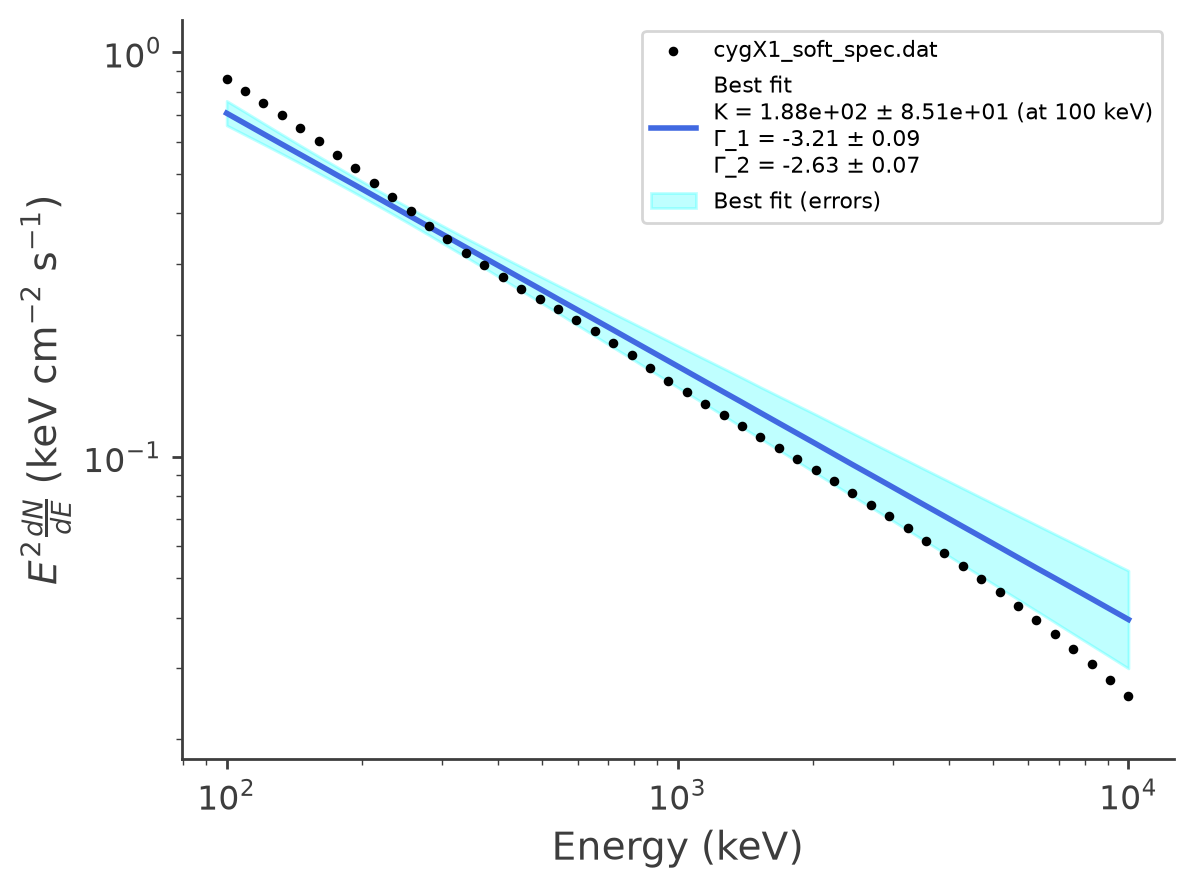
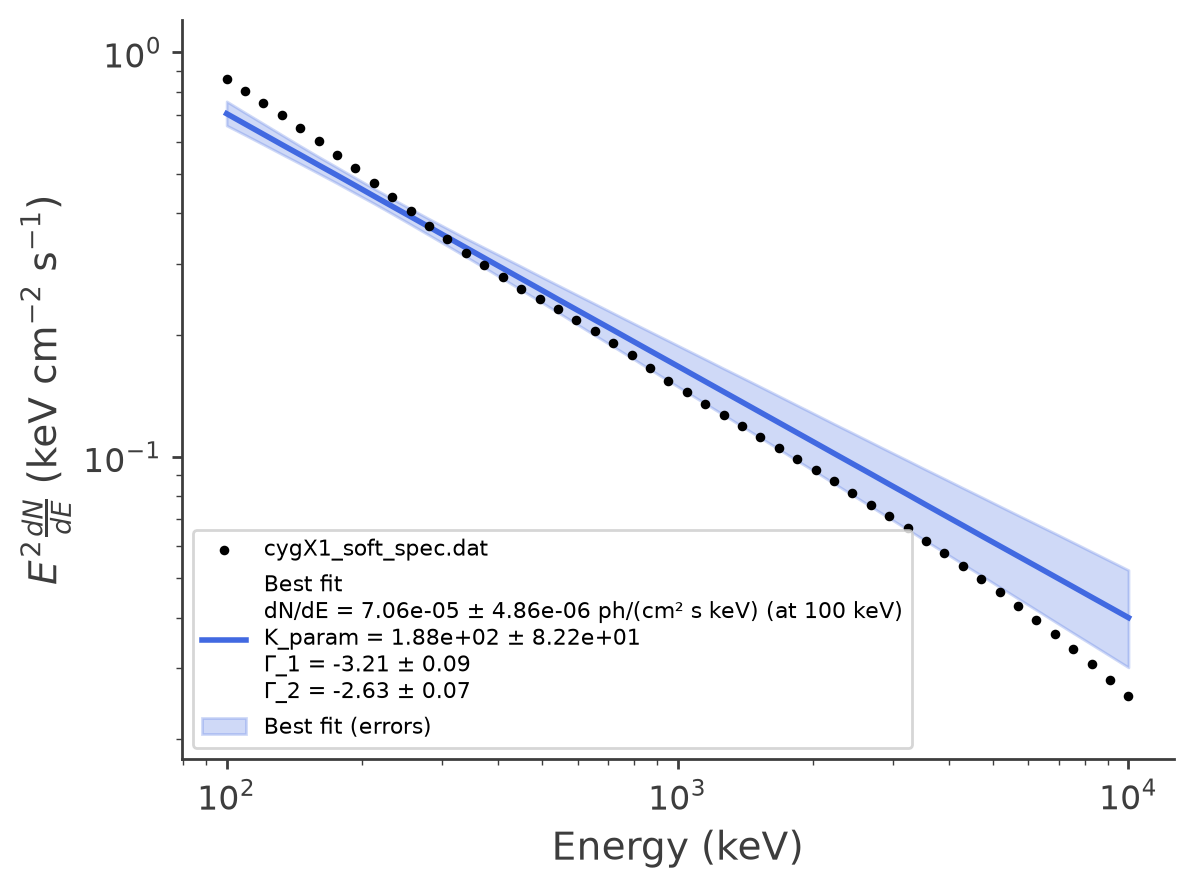
Aggiornamento automatico

Changed region(s): [[0.1551, 0.243, 0.9614, 0.8504], [0.5272, 0.0304, 0.9925, 0.2733], [0.1861, 0.1215, 0.3412, 0.243]]

diff --git a/Cygnus X-1 soft/spectral_fit.py b/Cygnus X-1 soft/spectral_fit.py
@@ -283,6 +283,7 @@ if fit_cache_path.exists():
     idx2_val = fit_payload["idx2_val"]
     idx2_err = fit_payload["idx2_err"]
     break_val = fit_payload["break_val"]
+    break_err = fit_payload.get("break_err", float("nan"))
     exp_em = fit_payload["exp_em"]
     exp_bkg_em = fit_payload["exp_bkg_em"]
     log_step("Caricamento fit ed errori da cache")
@@ -324,6 +325,7 @@ else:
     k_err = float(results.get_variates(spec_opt.K.path).std)
     idx1_err = float(results.get_variates(spec_opt.alpha.path).std)
     idx2_err = float(results.get_variates(spec_opt.beta.path).std)
+    break_err = float(results.get_variates(spec_opt.xb.path).std)
 
     # Valuto il flusso differenziale propagato all'energia di riferimento (break_val)
     flux_ref = results_err(break_val)
@@ -361,6 +363,7 @@ else:
         "idx2_val": idx2_val,
         "idx2_err": idx2_err,
         "break_val": break_val,
+        "break_err": break_err,
         "exp_em": exp_em,
         "exp_bkg_em": exp_bkg_em,
     }
@@ -400,10 +403,11 @@ int_flux_line = (
 fit_label = (
     f"Best fit\n"
     f"dN/dE = {flux_ref_val:.2e} ± {flux_ref_sym_err:.2e} ph/(cm² s keV) (at {break_val:g} keV)\n"
-    f"K_param = {k_val:.2e} ± {k_err:.2e}\n"
+    f"K = {k_val:.2e} ± {k_err:.2e}\n"
     f"{int_flux_line}"
     f"\u0393_1 = {idx1_val:.2f} ± {idx1_err:.2f}\n"
-    f"\u0393_2 = {idx2_val:.2f} ± {idx2_err:.2f}"
+    f"\u0393_2 = {idx2_val:.2f} ± {idx2_err:.2f}\n"
+    f"E_b = {break_val:.0f} ± {break_err:.0f} keV"
 )
 
 ax.plot(energy, energy**2 * flux_median, color="royalblue", label=fit_label)
@@ -479,4 +483,4 @@ log_step("Plot spettro convoluto + fondo vs totali (convolved_spectrum_vs_fit_wi
 
 elapsed = time.perf_counter() - t_start
 minutes, seconds = divmod(elapsed, 60)
-print(f"Tempo totale di esecuzione: {int(minutes)}m {seconds:.2f}s ({elapsed:.2f}s)")
+print(f"Tempo totale di esecuzione: {int(minutes)}m {seconds:.2f}s ({elapsed:.2f}s)")

diff --git a/Cygnus X-1 soft/model/fit_function.py b/Cygnus X-1 soft/model/fit_function.py
@@ -27,8 +27,8 @@ def power_model(index=-2.7, piv=100.0 * u.keV, K=8.6e-5 / u.cm / u.cm / u.s / u.
 def broken_power_model(
     index_1=-2.65,
     index_2=-2.75,
-    break_energy=100.0 * u.keV,
-    K=8.6e-5 / u.cm / u.cm / u.s / u.keV,
+    break_energy=1000.0 * u.keV,
+    K=2.7e-6 / u.cm / u.cm / u.s / u.keV,
 ):
     spectrum = Broken_powerlaw()  # creo il modello spettrale a legge di potenza spezzata non smooth
 
@@ -39,6 +39,10 @@ def broken_power_model(
     spectrum.beta.min_value = -6.0  # imposto il limite inferiore per il secondo indice spettrale
     spectrum.beta.max_value = 2.0  # imposto il limite superiore per il secondo indice spettrale
     spectrum.beta.delta = 0.05  # imposto il passo iniziale per il secondo indice spettrale
+
+    spectrum.xb.min_value = 100.0  # imposto il limite inferiore per l'energia di break (keV, inizio del range dei dati)
+    spectrum.xb.max_value = 10000.0  # imposto il limite superiore per l'energia di break (keV, fine del range dei dati)
+    spectrum.xb.delta = 50.0  # imposto il passo iniziale per l'energia di break
 
     spectrum.K.value = K.value  # imposto il valore iniziale della normalizzazione
     spectrum.xb.value = break_energy.value  # imposto l'energia di break iniziale
@@ -51,6 +55,6 @@ def broken_power_model(
     spectrum.K.free = True  # lascio libera la normalizzazione durante il fit
     spectrum.alpha.free = True  # lascio libero il primo indice spettrale durante il fit
     spectrum.beta.free = True  # lascio libero il secondo indice spettrale durante il fit
-    spectrum.xb.free = False  # tengo fissa l'energia di break
+    spectrum.xb.free = True  # lascio libera l'energia di break durante il fit
 
     return spectrum  # restituisco il modello spettrale configurato
